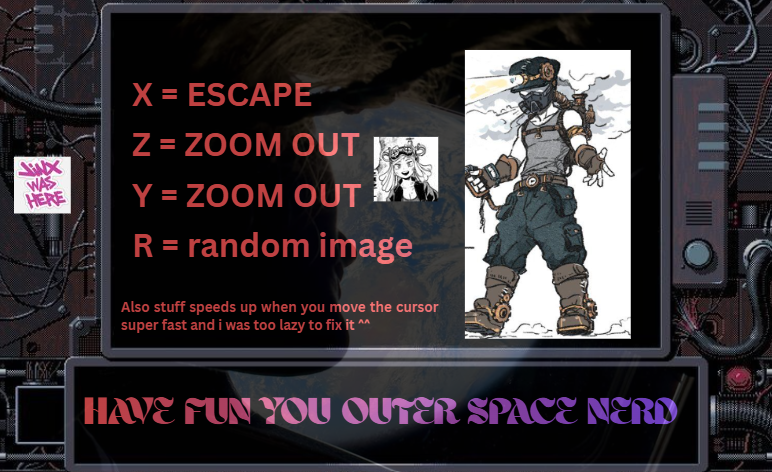
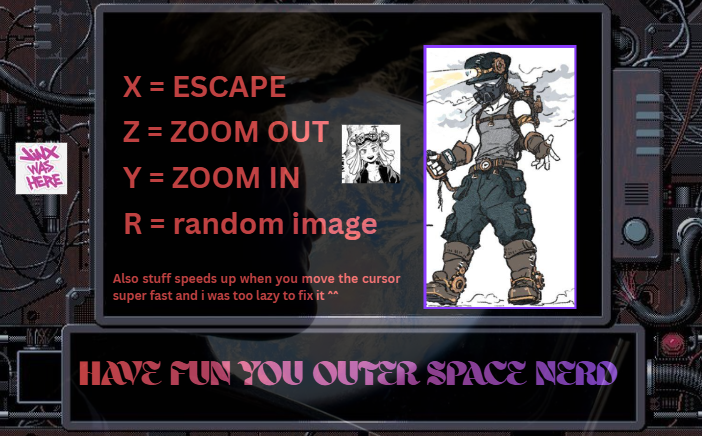
sound effects, random images, and fine tuning

Changed region(s): [[0.0, 0.0, 1.0, 1.0], [0.359, 0.0, 0.5983, 0.0298]]

diff --git a/sim.py b/sim.py
@@ -9,45 +9,96 @@ import math
 
 #Display and stuff
 app = Ursina(title = "3D SOLAR SYSTEM GRAVITY ORBIT", size = (1500, 1200))
+#image list
+image_list = [
+    'assets/so you want to be a pilot'
+]
 
 #exit key
 def input(key):
     if (key == 'x'):       
         quit()
-    else:
+    if (key =='r'):
+        Audio('assets/boom', loop=False, autoplay=True)
+        random_image = random.choice(image_list)
+        random_x = random.uniform(-0.1, 0.1)
+        random_y = random.uniform(-0.1, 0.1)
+
+        img_pop = Entity(
+            model = 'quad',
+            texture = random_image,
+            parent = camera.ui,
+            scale = 1,
+            position = (random_x, random_y)
+        )
+        invoke(destroy, img_pop, delay = 1)
+    else:  
         pass
 
 #PROPER CODE 
 def update():
+    global j
+    screen = camera
  # smooth buttons
     if held_keys['z']:
-        sun.scale_x += 2 * time.dt
-        sun.scale_y += 2 * time.dt
-        sun.scale_z += 2 * time.dt
+        screen.fov += 6 * time.dt
         
     if held_keys['y']:
-        sun.scale_x -= 2 * time.dt
-        sun.scale_y -= 2 * time.dt
-        sun.scale_z -= 2 * time.dt
-#constraint
-    if sun.scale_x < 0.1:
-        sun.scale_x = 0.1
-        sun.scale_y = 0.1
-        sun.scale_z = 0.1
+        screen.fov -= 6 * time.dt
+
 
 #the math
-    global j
     j = j + 0.01
     angle = math.pi*40/180
-
 #planet radius
-    radius_1 = 3.6
-    earth.x = math.cos(j)*radius_1
-    earth.z = math.sin(j)*radius_1
+    radius_mercury = 2
+    mercury.x = math.cos(j)*radius_mercury
+    mercury.z = math.sin(j)*radius_mercury
 
-#Y-axis movement
+    radius_venus = 5.2
+    venus.x = math.cos(j + angle)*radius_venus
+    venus.z = math.sin(j + angle)*radius_venus
+
+    radius_earth = 3.6
+    earth.x = math.cos(j + angle*2)*radius_earth
+    earth.z = math.sin(j + angle*2)*radius_earth  
+
+    radius_mars = 4.6
+    mars.x = math.cos(j+angle*3)*radius_mars
+    mars.z = math.sin(j+angle*3)*radius_mars
+
+    radius_jupiter = 2.8
+    jupiter.x = math.cos(j+angle*4)*radius_jupiter
+    jupiter.z = math.sin(j+angle*4)*radius_jupiter
+
+    radius_saturn = 6
+    saturn.x = math.cos(j+angle*5)*radius_saturn
+    saturn.z = math.sin(j+angle*5)*radius_saturn
+
+    radius_uranus = 8
+    uranus.x = math.cos(j+angle*6)*radius_uranus
+    uranus.z = math.sin(j+angle*6)*radius_uranus
+
+    radius_neptune = 4.4
+    neptune.x = math.cos(j+angle*7)*radius_neptune
+    neptune.z = math.sin(j+angle*7)*radius_neptune
+
+    radius_pluto = 6.8
+    pluto.x = math.cos(j+angle*8)*radius_pluto
+    pluto.z = math.sin(j+angle*8)*radius_pluto
+
+#axial rotation
     sun.rotation_y += time.dt*20
+    mercury.rotation_y += time.dt*20
+    venus.rotation_y += time.dt*20
     earth.rotation_y += time.dt*20
+    mars.rotation_y += time.dt*20
+    jupiter.rotation_y += time.dt*20
+    saturn.rotation_y += time.dt*20
+    uranus.rotation_y += time.dt*20
+    neptune.rotation_y += time.dt*20
+    pluto.rotation_y += time.dt*20
+
 
 
 #background
@@ -55,19 +106,64 @@ class Sky(Entity):
     def __init__(self):    
         super().__init__(
             model = 'sphere',
-            texture = 'assets/space',
+            texture = 'assets/spacey',
             parent = scene,
-            scale = 45,
+            scale = 100,
             double_sided = True 
         ) 
 
+#orbit lines
+def orbit_line(radius):
+    return Entity(
+        model = 'circle',
+        scale = radius * 2,
+        rotation_x = 90,
+        color = color.rgba(1,1,1,0.2),
+    )
+
+#extra assets
+nav = Entity(model='cube',texture='assets/truenaveve', scale= 3, y = 4, x = 4)
 
 
 #planets
 # my son aka sun
-sun = Entity(model='sphere',texture='assets/suntexture', scale= 1)
+sun = Entity(model='sphere',texture='assets/suntexture', scale= 3)
+
+#mercury (hot)
+mercury = Entity(model = 'sphere', texture='assets/mercury', scale = 0.4)
+orbit_mercury = orbit_line(2)
+
+#venus fly trap
+venus = Entity(model='sphere', texture='assets/venus', scale= 0.7)
+orbit_mercury = orbit_line(5.2)
+ 
 #Earthy poo
-earth = Entity(model='sphere',texture='assets/earth', scale= 1, position = (1,0,1))
+earth = Entity(model='sphere',texture='assets/earth', scale= 0.8)
+orbit_earth = orbit_line(3.6)
+#mars argo
+mars = Entity(model= 'sphere', texture= 'assets/mars', scale = 0.5)
+orbit_mars = orbit_line(4.6)
+
+#boys go to jupiter to get stupider
+jupiter = Entity(model='sphere', texture= 'assets/jupiter', scale =1.2)
+orbit_jupiter= orbit_line(2.8)
+
+#saturn
+saturn = Entity(model='sphere', texture = 'assets/saturn', scale = 1.5)
+orbit_saturn = orbit_line(6)
+
+#ur anus
+uranus = Entity(model='sphere', texture = 'assets/uranus', scale = 1.2)
+orbit_uranus = orbit_line(8)
+
+#king neptune
+neptune = Entity(model='sphere', texture = 'assets/neptune',scale = 1.1)
+orbit_neptune = orbit_line(4.4)
+
+#pluto (imposter planet)
+pluto = Entity(model = 'sphere', texture = 'assets/pluto', scale = 0.3)
+orbit_pluto = orbit_line(6.8)
+
 
 
 
